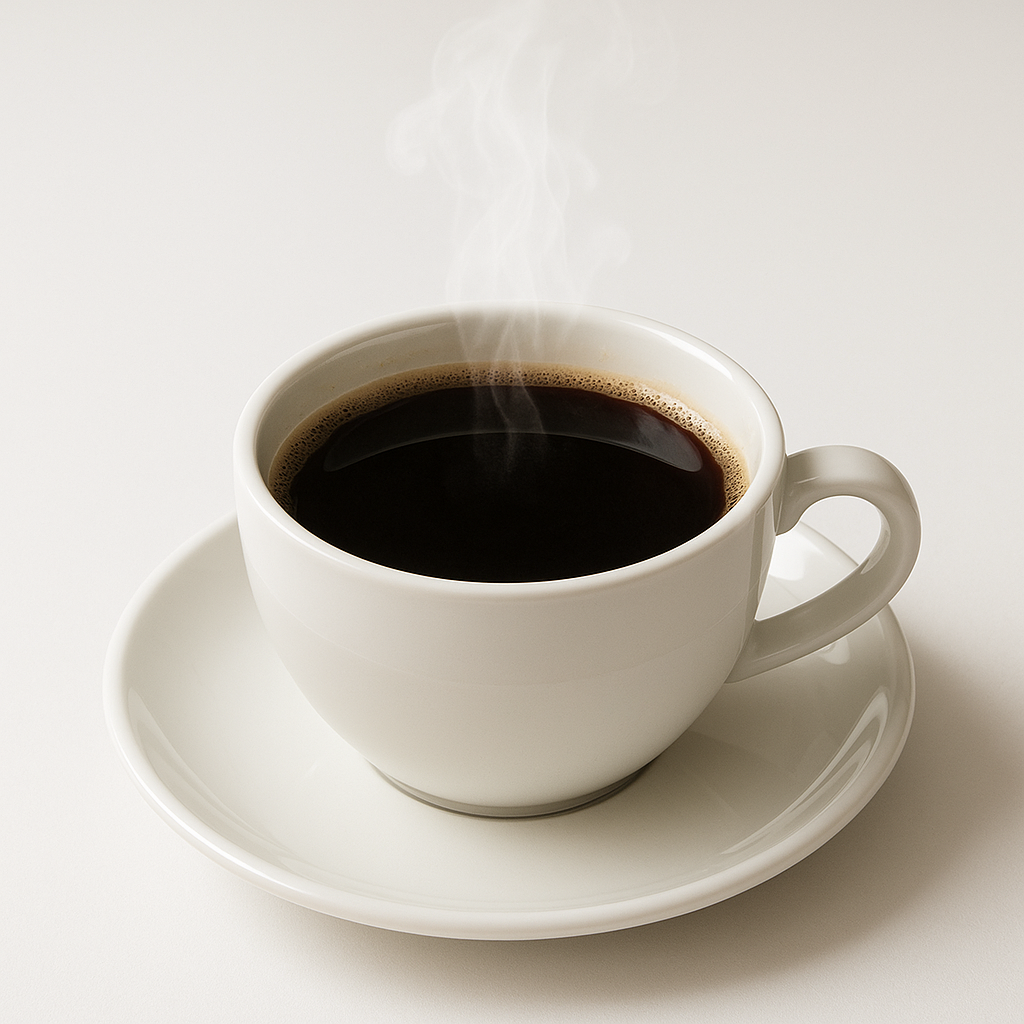
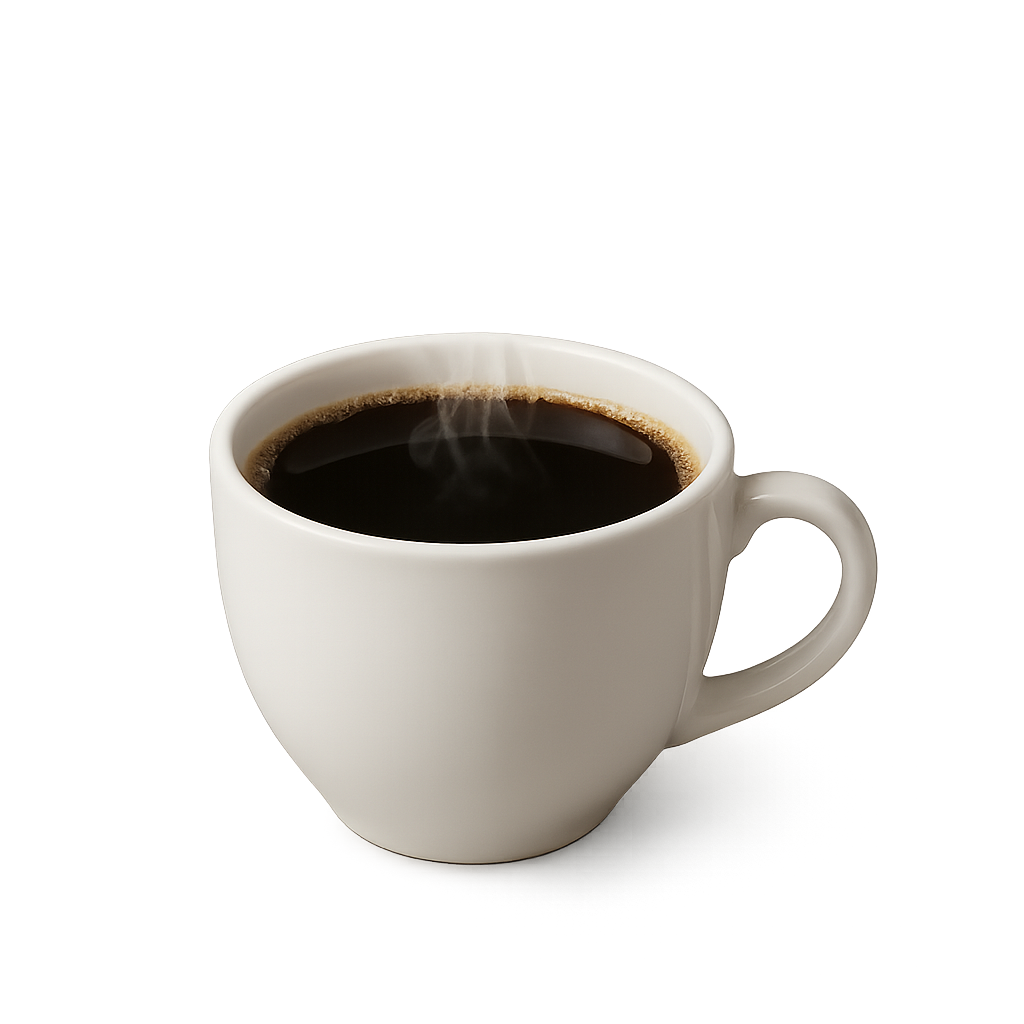
fix(data): update product images and Formule path
Update seedProducts.js and refresh assets folder with new transparent PNGs.

diff --git a/src/data/seedProducts.js b/src/data/seedProducts.js
@@ -10,7 +10,7 @@ export const SEED_PRODUCTS = [
     name: "Chocolat chaud",
     price_cents: 50,
     category: "Boissons Chaudes",
-    image: "/produits/chocolat.png", // Pensez à ajouter l'image
+    image: "/produits/chocolat.png",
   },
 
   // BOISSONS FRAICHES
@@ -30,13 +30,13 @@ export const SEED_PRODUCTS = [
     name: "Fanta",
     price_cents: 100,
     category: "Boissons",
-    image: "/produits/fanta.png", // Pensez à ajouter l'image
+    image: "/produits/fanta.png",
   },
   {
     name: "Eau",
     price_cents: 100,
     category: "Boissons",
-    image: "/produits/eau.png", // Pensez à ajouter l'image
+    image: "/produits/eau.png",
   },
   {
     name: "Oasis",
@@ -54,7 +54,7 @@ export const SEED_PRODUCTS = [
     name: "Limonade",
     price_cents: 100,
     category: "Boissons",
-    image: "/produits/limonade.png", // Pensez à ajouter l'image
+    image: "/produits/limonade.png",
   },
   {
     name: "Redbull",
@@ -68,7 +68,7 @@ export const SEED_PRODUCTS = [
     name: "Chips",
     price_cents: 100,
     category: "Snacks",
-    image: "/produits/lays-nature.png", // J'ai mis Lay's par défaut
+    image: "/produits/lays-nature.png",
   },
   {
     name: "Bueno",
@@ -86,13 +86,13 @@ export const SEED_PRODUCTS = [
     name: "Oreo",
     price_cents: 100,
     category: "Snacks",
-    image: "/produits/oreo.png", // Pensez à ajouter l'image
+    image: "/produits/oreo.png",
   },
   {
     name: "Gauffre",
     price_cents: 100,
     category: "Snacks",
-    image: "/produits/gauffre.png", // Pensez à ajouter l'image
+    image: "/produits/gauffre.png",
   },
   {
     name: "Twix",
@@ -104,7 +104,7 @@ export const SEED_PRODUCTS = [
     name: "Granola",
     price_cents: 100,
     category: "Snacks",
-    image: "/produits/granola.png", // Pensez à ajouter l'image
+    image: "/produits/granola.png",
   },
 
   // FORMULES
@@ -112,6 +112,6 @@ export const SEED_PRODUCTS = [
     name: "Formule",
     price_cents: 120,
     category: "Formules",
-    image: "/logo.png", // J'ai mis le logo par défaut
+    image: "/produits/formule.png", 
   },
 ];
